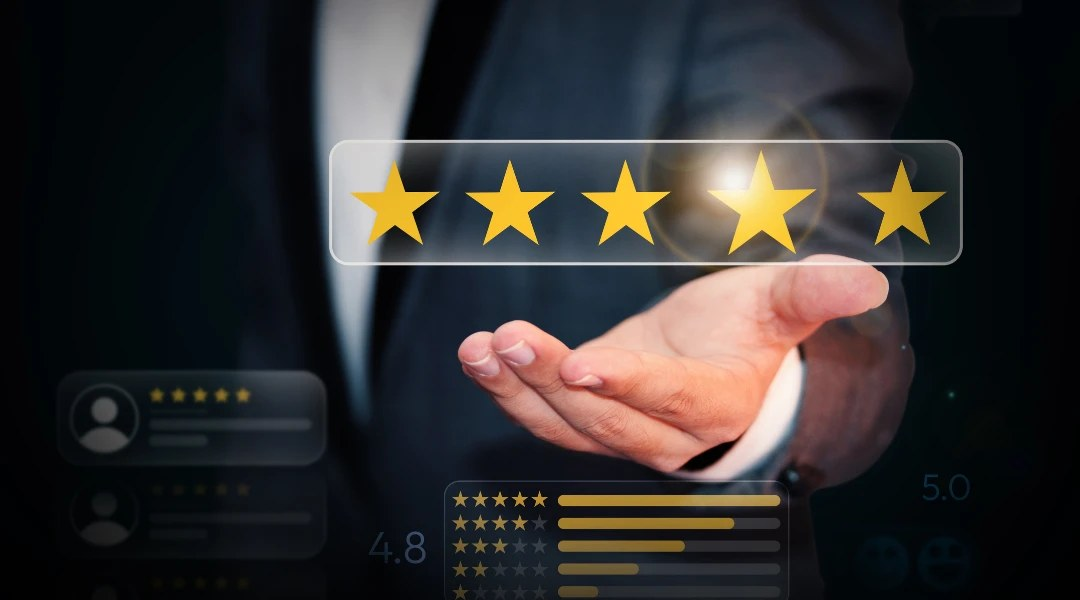
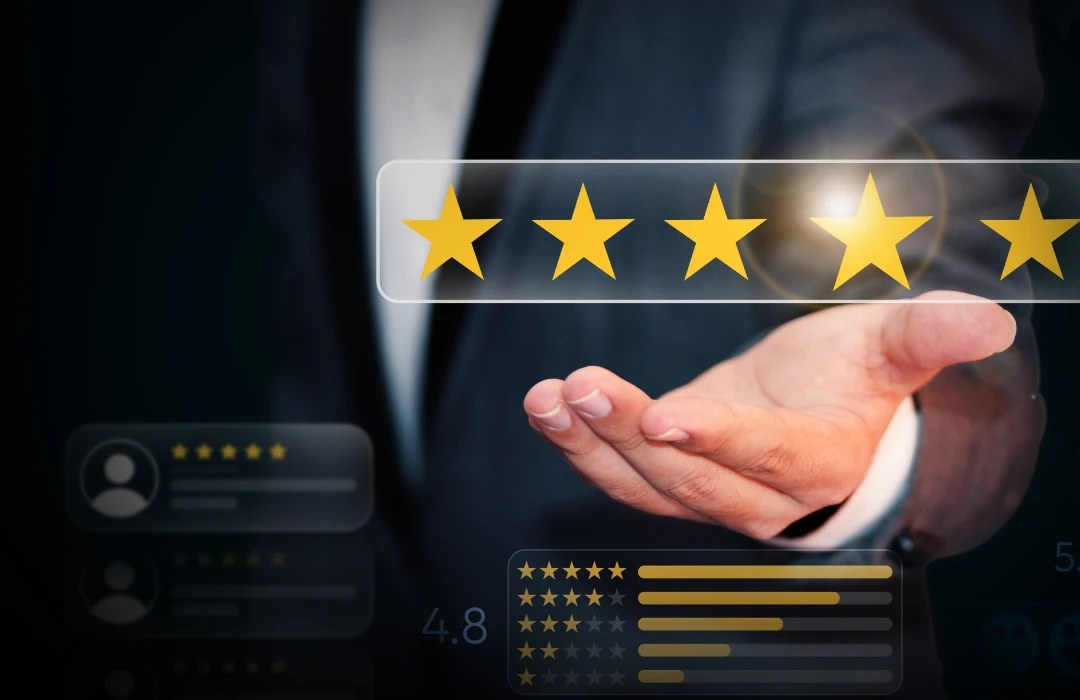
Update home hero background to higher-crop review photo
Replace the home hero image with the updated taller crop so the full
five-star bar and hand read clearly on the right. Bump CSS cache to v=6.

Claude-Session: https://claude.ai/code/session_01UUBMFi8ZjrjM5nLysFZprA

diff --git a/about.html b/about.html
@@ -38,8 +38,8 @@
   <link rel="stylesheet" href="https://cdnjs.cloudflare.com/ajax/libs/font-awesome/6.5.2/css/all.min.css" crossorigin="anonymous" referrerpolicy="no-referrer">
 
   <!-- Styles -->
-  <link rel="stylesheet" href="css/style.css?v=5">
-  <link rel="stylesheet" href="css/responsive.css?v=5">
+  <link rel="stylesheet" href="css/style.css?v=6">
+  <link rel="stylesheet" href="css/responsive.css?v=6">
 
   <!-- Schema.org LocalBusiness -->
   <script type="application/ld+json">

diff --git a/blog.html b/blog.html
@@ -38,8 +38,8 @@
   <link rel="stylesheet" href="https://cdnjs.cloudflare.com/ajax/libs/font-awesome/6.5.2/css/all.min.css" crossorigin="anonymous" referrerpolicy="no-referrer">
 
   <!-- Styles -->
-  <link rel="stylesheet" href="css/style.css?v=5">
-  <link rel="stylesheet" href="css/responsive.css?v=5">
+  <link rel="stylesheet" href="css/style.css?v=6">
+  <link rel="stylesheet" href="css/responsive.css?v=6">
 
   <!-- Schema.org LocalBusiness -->
   <script type="application/ld+json">

diff --git a/contact.html b/contact.html
@@ -38,8 +38,8 @@
   <link rel="stylesheet" href="https://cdnjs.cloudflare.com/ajax/libs/font-awesome/6.5.2/css/all.min.css" crossorigin="anonymous" referrerpolicy="no-referrer">
 
   <!-- Styles -->
-  <link rel="stylesheet" href="css/style.css?v=5">
-  <link rel="stylesheet" href="css/responsive.css?v=5">
+  <link rel="stylesheet" href="css/style.css?v=6">
+  <link rel="stylesheet" href="css/responsive.css?v=6">
 
   <!-- Schema.org LocalBusiness -->
   <script type="application/ld+json">

diff --git a/index.html b/index.html
@@ -38,8 +38,8 @@
   <link rel="stylesheet" href="https://cdnjs.cloudflare.com/ajax/libs/font-awesome/6.5.2/css/all.min.css" crossorigin="anonymous" referrerpolicy="no-referrer">
 
   <!-- Styles -->
-  <link rel="stylesheet" href="css/style.css?v=5">
-  <link rel="stylesheet" href="css/responsive.css?v=5">
+  <link rel="stylesheet" href="css/style.css?v=6">
+  <link rel="stylesheet" href="css/responsive.css?v=6">
 
   <!-- Schema.org LocalBusiness -->
   <script type="application/ld+json">

diff --git a/local-listings.html b/local-listings.html
@@ -38,8 +38,8 @@
   <link rel="stylesheet" href="https://cdnjs.cloudflare.com/ajax/libs/font-awesome/6.5.2/css/all.min.css" crossorigin="anonymous" referrerpolicy="no-referrer">
 
   <!-- Styles -->
-  <link rel="stylesheet" href="css/style.css?v=5">
-  <link rel="stylesheet" href="css/responsive.css?v=5">
+  <link rel="stylesheet" href="css/style.css?v=6">
+  <link rel="stylesheet" href="css/responsive.css?v=6">
 
   <!-- Schema.org LocalBusiness -->
   <script type="application/ld+json">

diff --git a/privacy-policy.html b/privacy-policy.html
@@ -38,8 +38,8 @@
   <link rel="stylesheet" href="https://cdnjs.cloudflare.com/ajax/libs/font-awesome/6.5.2/css/all.min.css" crossorigin="anonymous" referrerpolicy="no-referrer">
 
   <!-- Styles -->
-  <link rel="stylesheet" href="css/style.css?v=5">
-  <link rel="stylesheet" href="css/responsive.css?v=5">
+  <link rel="stylesheet" href="css/style.css?v=6">
+  <link rel="stylesheet" href="css/responsive.css?v=6">
 
   <!-- Schema.org LocalBusiness -->
   <script type="application/ld+json">

diff --git a/reputation-management.html b/reputation-management.html
@@ -38,8 +38,8 @@
   <link rel="stylesheet" href="https://cdnjs.cloudflare.com/ajax/libs/font-awesome/6.5.2/css/all.min.css" crossorigin="anonymous" referrerpolicy="no-referrer">
 
   <!-- Styles -->
-  <link rel="stylesheet" href="css/style.css?v=5">
-  <link rel="stylesheet" href="css/responsive.css?v=5">
+  <link rel="stylesheet" href="css/style.css?v=6">
+  <link rel="stylesheet" href="css/responsive.css?v=6">
 
   <!-- Schema.org LocalBusiness -->
   <script type="application/ld+json">

diff --git a/review-management-services.html b/review-management-services.html
@@ -38,8 +38,8 @@
   <link rel="stylesheet" href="https://cdnjs.cloudflare.com/ajax/libs/font-awesome/6.5.2/css/all.min.css" crossorigin="anonymous" referrerpolicy="no-referrer">
 
   <!-- Styles -->
-  <link rel="stylesheet" href="css/style.css?v=5">
-  <link rel="stylesheet" href="css/responsive.css?v=5">
+  <link rel="stylesheet" href="css/style.css?v=6">
+  <link rel="stylesheet" href="css/responsive.css?v=6">
 
   <!-- Schema.org LocalBusiness -->
   <script type="application/ld+json">

diff --git a/review-stand.html b/review-stand.html
@@ -38,8 +38,8 @@
   <link rel="stylesheet" href="https://cdnjs.cloudflare.com/ajax/libs/font-awesome/6.5.2/css/all.min.css" crossorigin="anonymous" referrerpolicy="no-referrer">
 
   <!-- Styles -->
-  <link rel="stylesheet" href="css/style.css?v=5">
-  <link rel="stylesheet" href="css/responsive.css?v=5">
+  <link rel="stylesheet" href="css/style.css?v=6">
+  <link rel="stylesheet" href="css/responsive.css?v=6">
 
   <!-- Schema.org LocalBusiness -->
   <script type="application/ld+json">

diff --git a/services.html b/services.html
@@ -38,8 +38,8 @@
   <link rel="stylesheet" href="https://cdnjs.cloudflare.com/ajax/libs/font-awesome/6.5.2/css/all.min.css" crossorigin="anonymous" referrerpolicy="no-referrer">
 
   <!-- Styles -->
-  <link rel="stylesheet" href="css/style.css?v=5">
-  <link rel="stylesheet" href="css/responsive.css?v=5">
+  <link rel="stylesheet" href="css/style.css?v=6">
+  <link rel="stylesheet" href="css/responsive.css?v=6">
 
   <!-- Schema.org LocalBusiness -->
   <script type="application/ld+json">

diff --git a/social-media-management.html b/social-media-management.html
@@ -38,8 +38,8 @@
   <link rel="stylesheet" href="https://cdnjs.cloudflare.com/ajax/libs/font-awesome/6.5.2/css/all.min.css" crossorigin="anonymous" referrerpolicy="no-referrer">
 
   <!-- Styles -->
-  <link rel="stylesheet" href="css/style.css?v=5">
-  <link rel="stylesheet" href="css/responsive.css?v=5">
+  <link rel="stylesheet" href="css/style.css?v=6">
+  <link rel="stylesheet" href="css/responsive.css?v=6">
 
   <!-- Schema.org LocalBusiness -->
   <script type="application/ld+json">

diff --git a/thank-you.html b/thank-you.html
@@ -38,8 +38,8 @@
   <link rel="stylesheet" href="https://cdnjs.cloudflare.com/ajax/libs/font-awesome/6.5.2/css/all.min.css" crossorigin="anonymous" referrerpolicy="no-referrer">
 
   <!-- Styles -->
-  <link rel="stylesheet" href="css/style.css?v=5">
-  <link rel="stylesheet" href="css/responsive.css?v=5">
+  <link rel="stylesheet" href="css/style.css?v=6">
+  <link rel="stylesheet" href="css/responsive.css?v=6">
 
   <!-- Schema.org LocalBusiness -->
   <script type="application/ld+json">